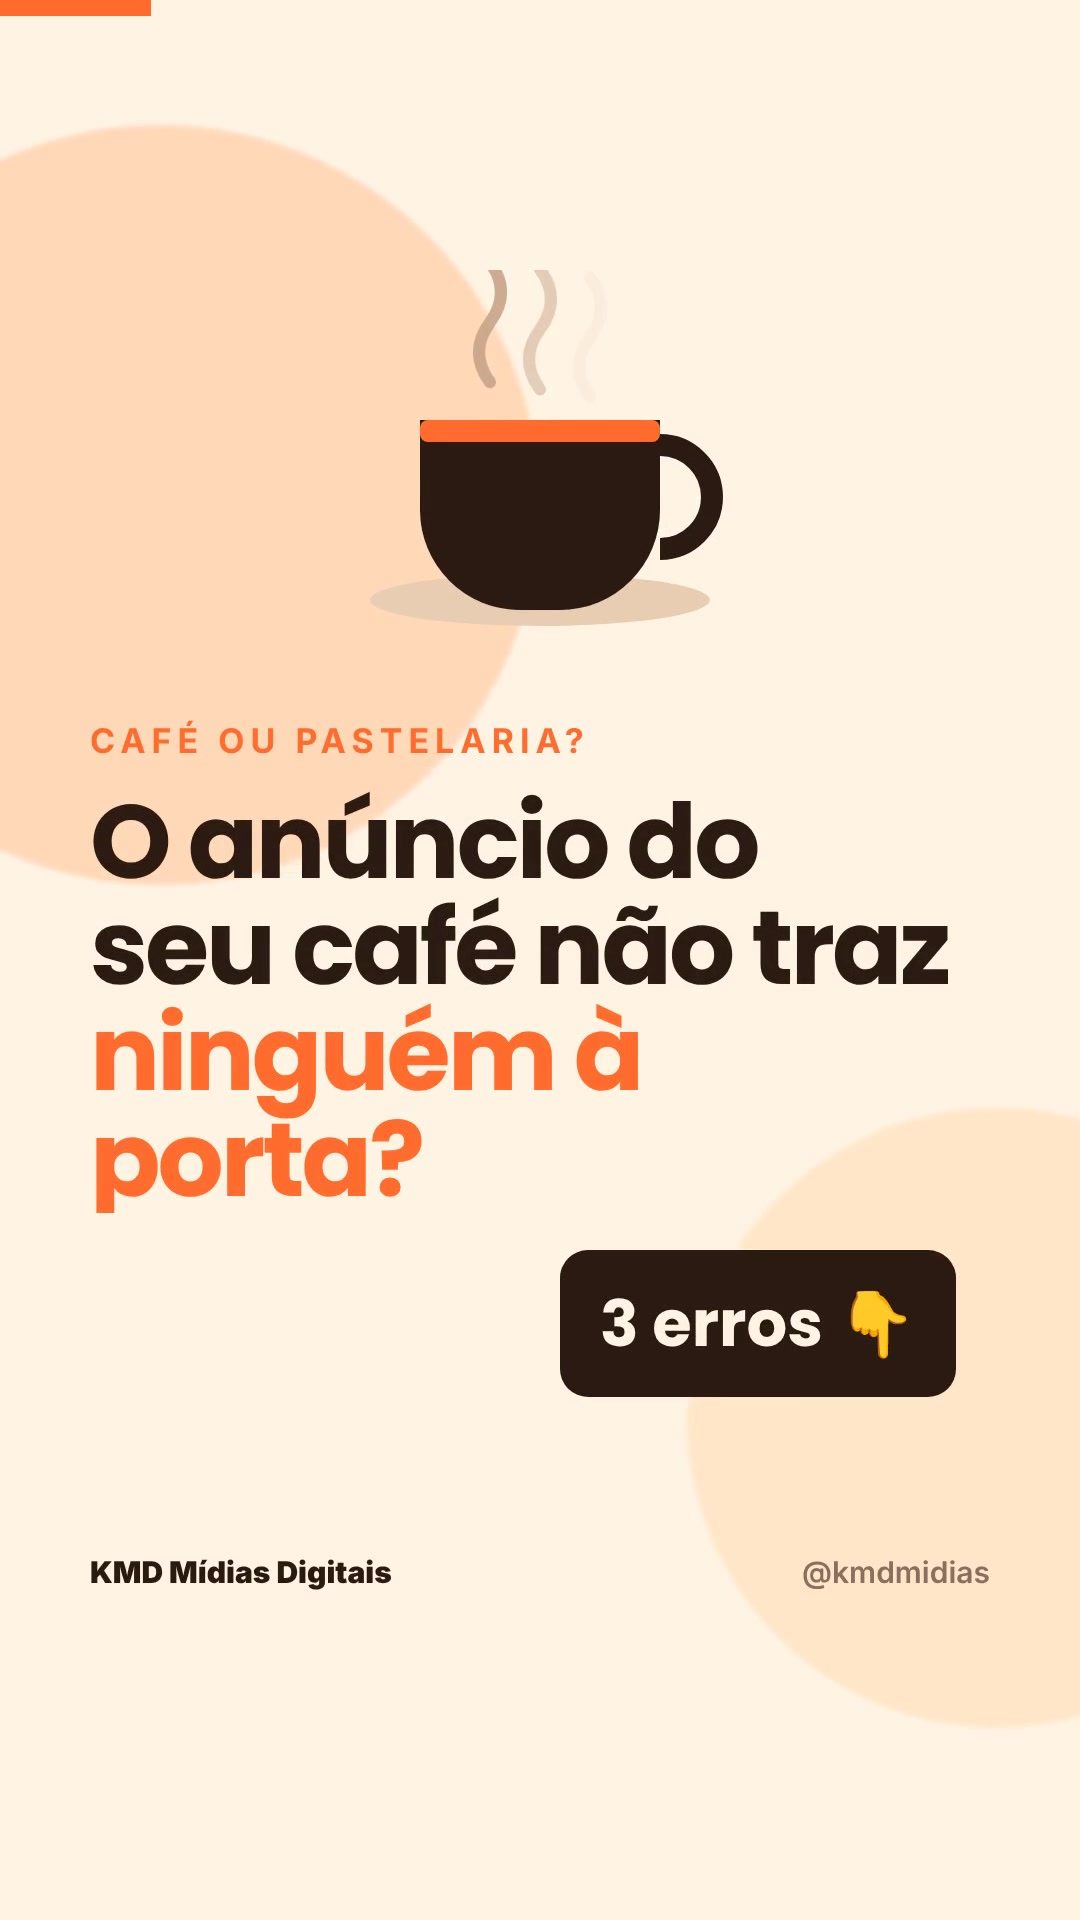
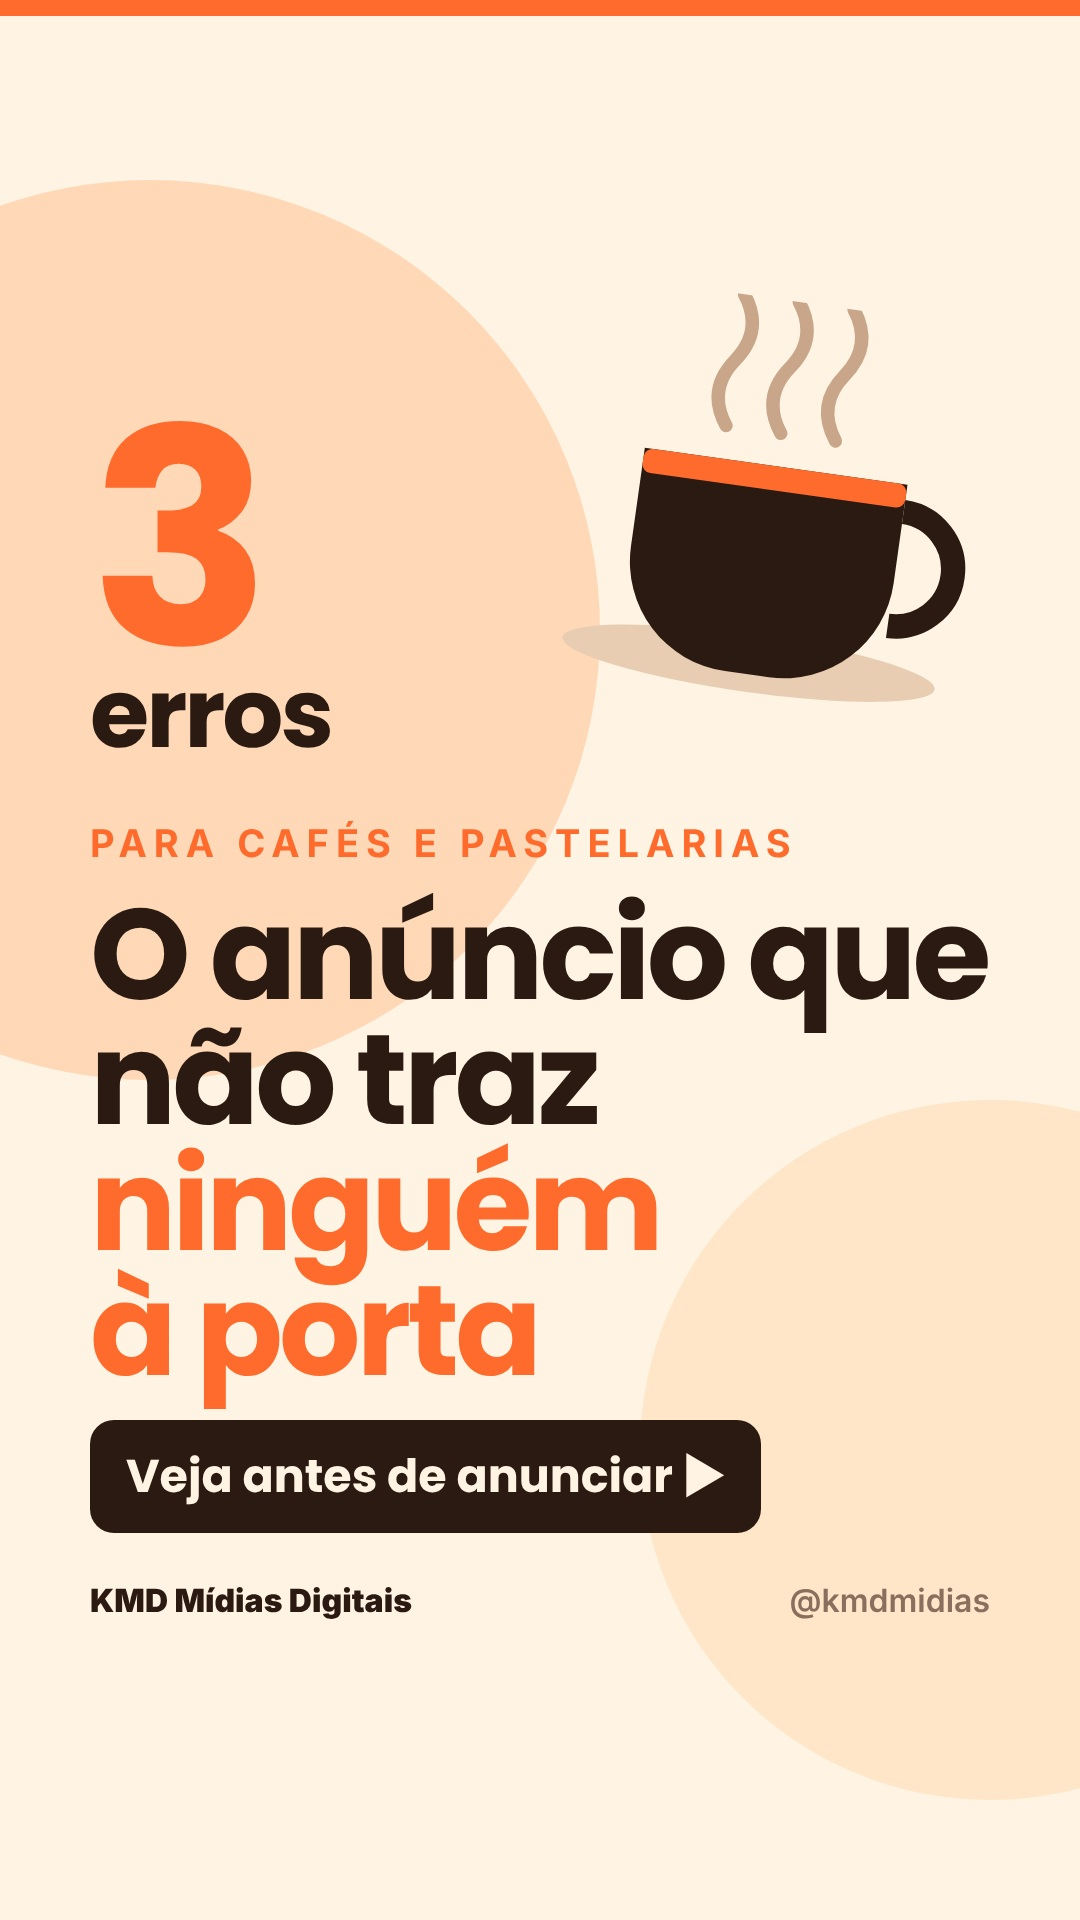
Reel café: capa nova (1080x1920, segura no recorte 3:4 da grelha)

Changed region(s): [[0.0, 0.0625, 1.0, 0.9375], [0.1222, 0.0, 1.0, 0.0312], [0.7944, 0.5625, 0.8556, 0.5938]]

diff --git a/posts/2026-11-23-reel-cafe-3-erros/capa.html b/posts/2026-11-23-reel-cafe-3-erros/capa.html
@@ -1,0 +1,35 @@
+<!doctype html><html><head><meta charset="utf-8"><style>
+*{margin:0;padding:0;box-sizing:border-box}
+html,body{width:1080px;height:1920px;overflow:hidden}
+body{background:#FFF3E3;font-family:'Poppins',sans-serif;color:#2B1A12;position:relative}
+.abs{position:absolute}
+.blob{position:absolute;border-radius:50%}
+.kicker{font-family:'Inter';font-weight:700;font-size:38px;letter-spacing:7px;text-transform:uppercase;color:#FF6B2C}
+.big{font-weight:800;font-size:128px;line-height:.98;letter-spacing:-4px}
+.hl{color:#FF6B2C}
+.brand{position:absolute;left:90px;right:90px;bottom:300px;display:flex;justify-content:space-between;font-family:'Inter';font-weight:600;font-size:32px;color:#8A6E5E}
+.brand b{color:#2B1A12}
+</style></head><body>
+<div class="blob" style="width:900px;height:900px;background:#FFD8B8;left:-300px;top:180px"></div>
+<div class="blob" style="width:700px;height:700px;background:#FFE6C9;right:-260px;top:1100px"></div>
+<div class="abs" style="top:0;left:0;width:1080px;height:16px;background:#FF6B2C"></div>
+<svg class="abs" style="left:560px;top:300px;transform:rotate(8deg)" width="420" height="420" viewBox="0 0 380 380">
+  <g fill="none" stroke="#C9A58A" stroke-width="12" stroke-linecap="round">
+    <path d="M140 120 q-22 -30 0 -60 q22 -30 0 -60"/><path d="M190 120 q-22 -30 0 -60 q22 -30 0 -60"/><path d="M240 120 q-22 -30 0 -60 q22 -30 0 -60"/>
+  </g>
+  <ellipse cx="190" cy="330" rx="170" ry="26" fill="#E8CDB3"/>
+  <path d="M70 150 h240 v90 a100 100 0 0 1 -100 100 h-40 a100 100 0 0 1 -100 -100 z" fill="#2B1A12"/>
+  <path d="M310 175 a52 52 0 0 1 0 104" fill="none" stroke="#2B1A12" stroke-width="22"/>
+  <rect x="70" y="150" width="240" height="22" rx="8" fill="#FF6B2C"/>
+</svg>
+<div class="abs" style="left:90px;top:420px;width:520px">
+  <div style="font-weight:800;font-size:300px;line-height:.8;color:#FF6B2C;letter-spacing:-12px">3</div>
+  <div style="font-weight:800;font-size:96px;line-height:1;letter-spacing:-3px;margin-top:6px">erros</div>
+</div>
+<div class="abs" style="left:90px;top:820px;width:920px">
+  <div class="kicker">Para cafés e pastelarias</div>
+  <div class="big" style="margin-top:26px">O anúncio que<br>não traz <span class="hl">ninguém<br>à porta</span></div>
+</div>
+<div class="abs" style="left:90px;top:1420px;background:#2B1A12;color:#FFF3E3;border-radius:24px;padding:22px 36px;font-weight:800;font-size:46px">Veja antes de anunciar ▶</div>
+<div class="brand"><b>KMD Mídias Digitais</b><span>@kmdmidias</span></div>
+</body></html>
